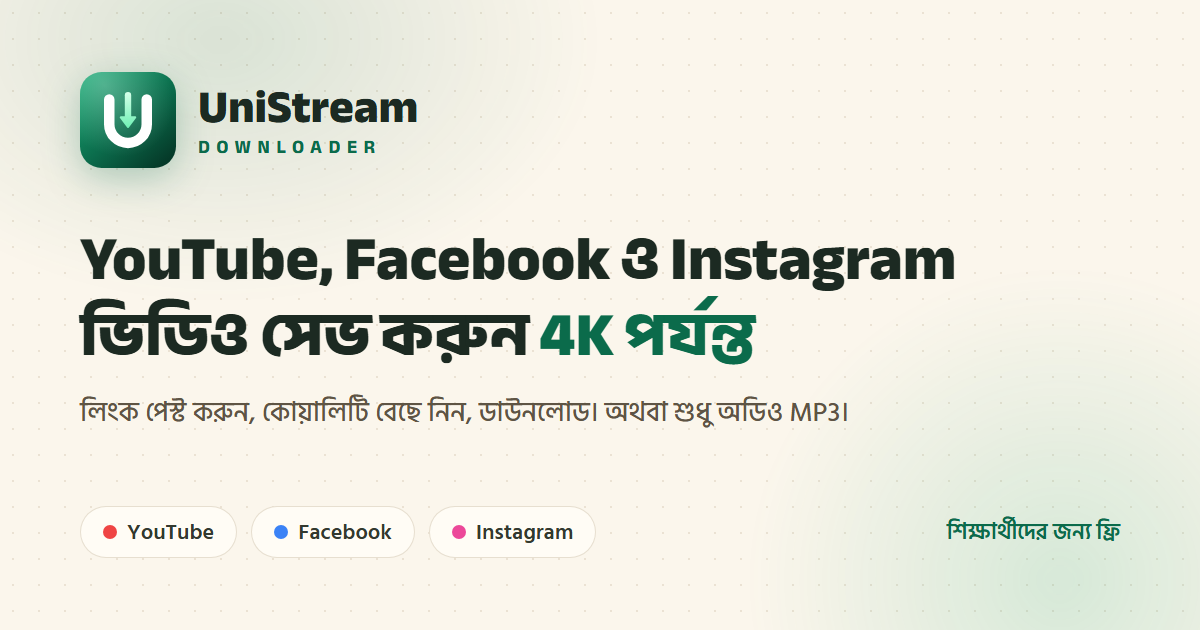
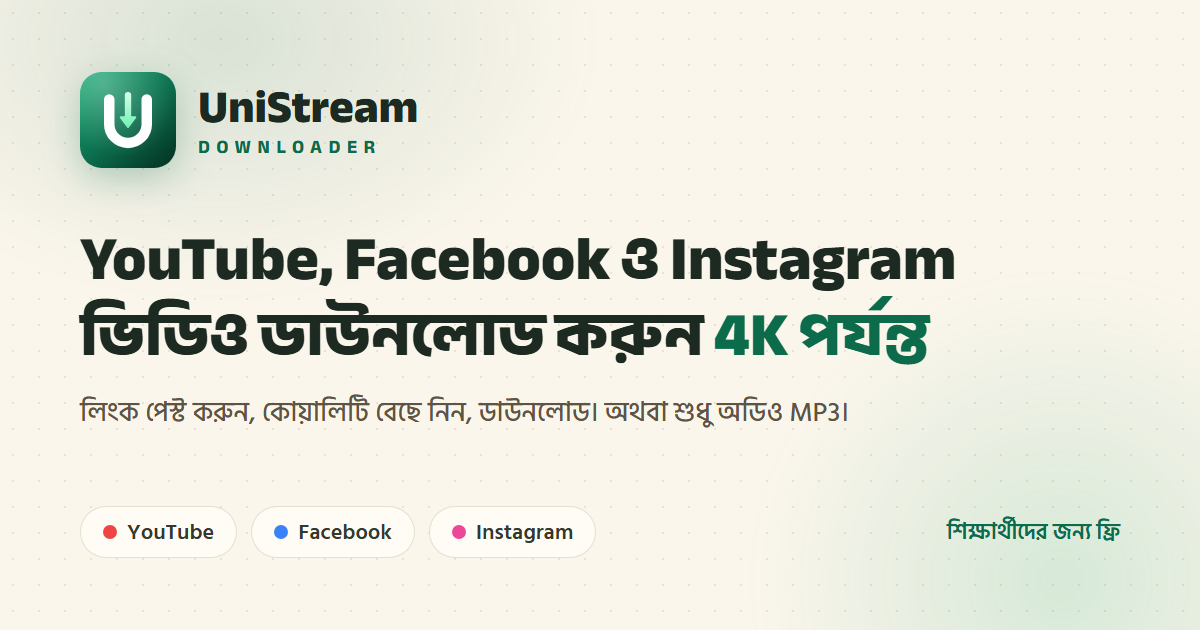
Say ডাউনলোড করুন instead of সেভ করুন in the headlines and share image

Changed region(s): [[0.2158, 0.4524, 0.7708, 0.6032]]

diff --git a/frontend/app/page.tsx b/frontend/app/page.tsx
@@ -150,13 +150,13 @@ export default function HomePage() {
                 className="text-[1.875rem] leading-[1.1] sm:text-5xl lg:text-[3.4rem] font-extrabold text-white max-w-2xl"
                 style={{ letterSpacing: '-0.025em' }}
               >
-                YouTube, Facebook ও Instagram ভিডিও সেভ করুন{' '}
+                YouTube, Facebook ও Instagram ভিডিও ডাউনলোড করুন{' '}
                 <span className="bg-gradient-to-r from-sky-400 via-indigo-400 to-violet-400 bg-clip-text text-transparent">
                   4K পর্যন্ত কোয়ালিটিতে।
                 </span>
               </h1>
               <p className="mt-3 sm:mt-5 text-[15px] sm:text-base leading-relaxed text-slate-400 max-w-xl">
-                লেকচার থেকে শুরু করে প্রিয় ভিডিও, Reels, গান — পছন্দের যেকোনো পাবলিক ভিডিও সেভ করুন। লিংক পেস্ট করুন,
+                লেকচার থেকে শুরু করে প্রিয় ভিডিও, Reels, গান — পছন্দের যেকোনো পাবলিক ভিডিও ডাউনলোড করুন। লিংক পেস্ট করুন,
                 কোয়ালিটি বেছে নিন, ডাউনলোড। অনুমোদিত শিক্ষার্থীদের জন্য ফ্রি।
               </p>
               <p className="mt-3 inline-flex items-start gap-2 text-[13px] sm:text-sm leading-relaxed text-violet-200/90">

diff --git a/frontend/app/layout.tsx b/frontend/app/layout.tsx
@@ -10,8 +10,8 @@ const SITE_NAME = 'UniStream Downloader'
 // Shared by every page that doesn't set its own; also the landing page's
 // metadata (it's a client component, so it can't export any).
 const description =
-  'লেকচার থেকে শুরু করে প্রিয় ভিডিও, Reels, গান — YouTube, Facebook ও Instagram-এর পছন্দের যেকোনো পাবলিক ভিডিও 4K পর্যন্ত, বা শুধু অডিও MP3 হিসেবে সেভ করুন। অনুমোদিত শিক্ষার্থীদের জন্য ফ্রি।'
-const shareDescription = 'YouTube, Facebook ও Instagram ভিডিও 4K পর্যন্ত সেভ করুন। অনুমোদিত শিক্ষার্থীদের জন্য ফ্রি।'
+  'লেকচার থেকে শুরু করে প্রিয় ভিডিও, Reels, গান — YouTube, Facebook ও Instagram-এর পছন্দের যেকোনো পাবলিক ভিডিও 4K পর্যন্ত, বা শুধু অডিও MP3 হিসেবে ডাউনলোড করুন। অনুমোদিত শিক্ষার্থীদের জন্য ফ্রি।'
+const shareDescription = 'YouTube, Facebook ও Instagram ভিডিও 4K পর্যন্ত ডাউনলোড করুন। অনুমোদিত শিক্ষার্থীদের জন্য ফ্রি।'
 
 // Absolute base for the share image and og:url: the public address (set
 // NEXT_PUBLIC_SITE_URL if it ever changes again).

diff --git a/frontend/app/terms/page.tsx b/frontend/app/terms/page.tsx
@@ -225,7 +225,7 @@ export default function TermsPage() {
             <div className="mt-6 rounded-xl border border-indigo-500/20 bg-indigo-500/[0.06] p-4 sm:p-5">
               <h2 className="text-sm font-semibold text-white">সংক্ষেপে</h2>
               <ul className="mt-2 space-y-1.5 pl-5 list-disc marker:text-indigo-400 text-[14px] leading-relaxed text-slate-300">
-                <li>লেকচার থেকে পছন্দের যেকোনো পাবলিক ভিডিও, ব্যক্তিগত ব্যবহারের জন্য সেভ করুন।</li>
+                <li>লেকচার থেকে পছন্দের যেকোনো পাবলিক ভিডিও, ব্যক্তিগত ব্যবহারের জন্য ডাউনলোড করুন।</li>
                 <li>আমরা কনটেন্ট যাচাই করি না: কী ডাউনলোড করবেন আর কীভাবে ব্যবহার করবেন, তার দায় আপনার।</li>
                 <li>প্রতিজনের একটি অ্যাকাউন্ট। পাসওয়ার্ড নিজের কাছে রাখুন।</li>
                 <li>অ্যাকাউন্ট অনুযায়ী প্রতিদিন আনলিমিটেড ডাউনলোড। নিয়ম ভাঙলে অ্যাকাউন্ট ব্লক করা হতে পারে।</li>

diff --git a/frontend/app/download/page.tsx b/frontend/app/download/page.tsx
@@ -759,7 +759,7 @@ function Workspace({ user, refresh, signOut, setUser }: WorkspaceProps) {
           {firstName && <p className="text-[13px] font-medium text-indigo-300/90">হ্যালো, {firstName}</p>}
           <h1 className="mt-0.5 text-2xl sm:text-3xl font-bold text-white">ভিডিও ডাউনলোড করুন</h1>
           <p className="mt-1.5 text-sm sm:text-[15px] leading-relaxed text-slate-400 max-w-2xl">
-            YouTube, Facebook বা Instagram-এর লিংক পেস্ট করুন, 4K পর্যন্ত কোয়ালিটি বেছে নিন, আর অফলাইনে দেখার জন্য সেভ করুন।
+            YouTube, Facebook বা Instagram-এর লিংক পেস্ট করুন, 4K পর্যন্ত কোয়ালিটি বেছে নিন, আর অফলাইনে দেখার জন্য ডাউনলোড করুন।
           </p>
         </div>
         <div className="grid grid-cols-2 gap-2 sm:flex sm:items-center sm:justify-end">

diff --git a/frontend/components/Footer.tsx b/frontend/components/Footer.tsx
@@ -27,7 +27,7 @@ export default function Footer({ showAdminLink = false }: FooterProps) {
               <BrandLockup size="sm" />
             </Link>
             <p className="mt-3 text-[13px] leading-relaxed text-slate-500">
-              YouTube, Facebook ও Instagram ভিডিও 4K পর্যন্ত কোয়ালিটিতে সেভ করুন। অনুমোদিত শিক্ষার্থীদের জন্য ফ্রি,
+              YouTube, Facebook ও Instagram ভিডিও 4K পর্যন্ত কোয়ালিটিতে ডাউনলোড করুন। অনুমোদিত শিক্ষার্থীদের জন্য ফ্রি,
               অ্যাকাউন্ট অনুযায়ী প্রতিদিন আনলিমিটেড ডাউনলোড।
             </p>
           </div>
